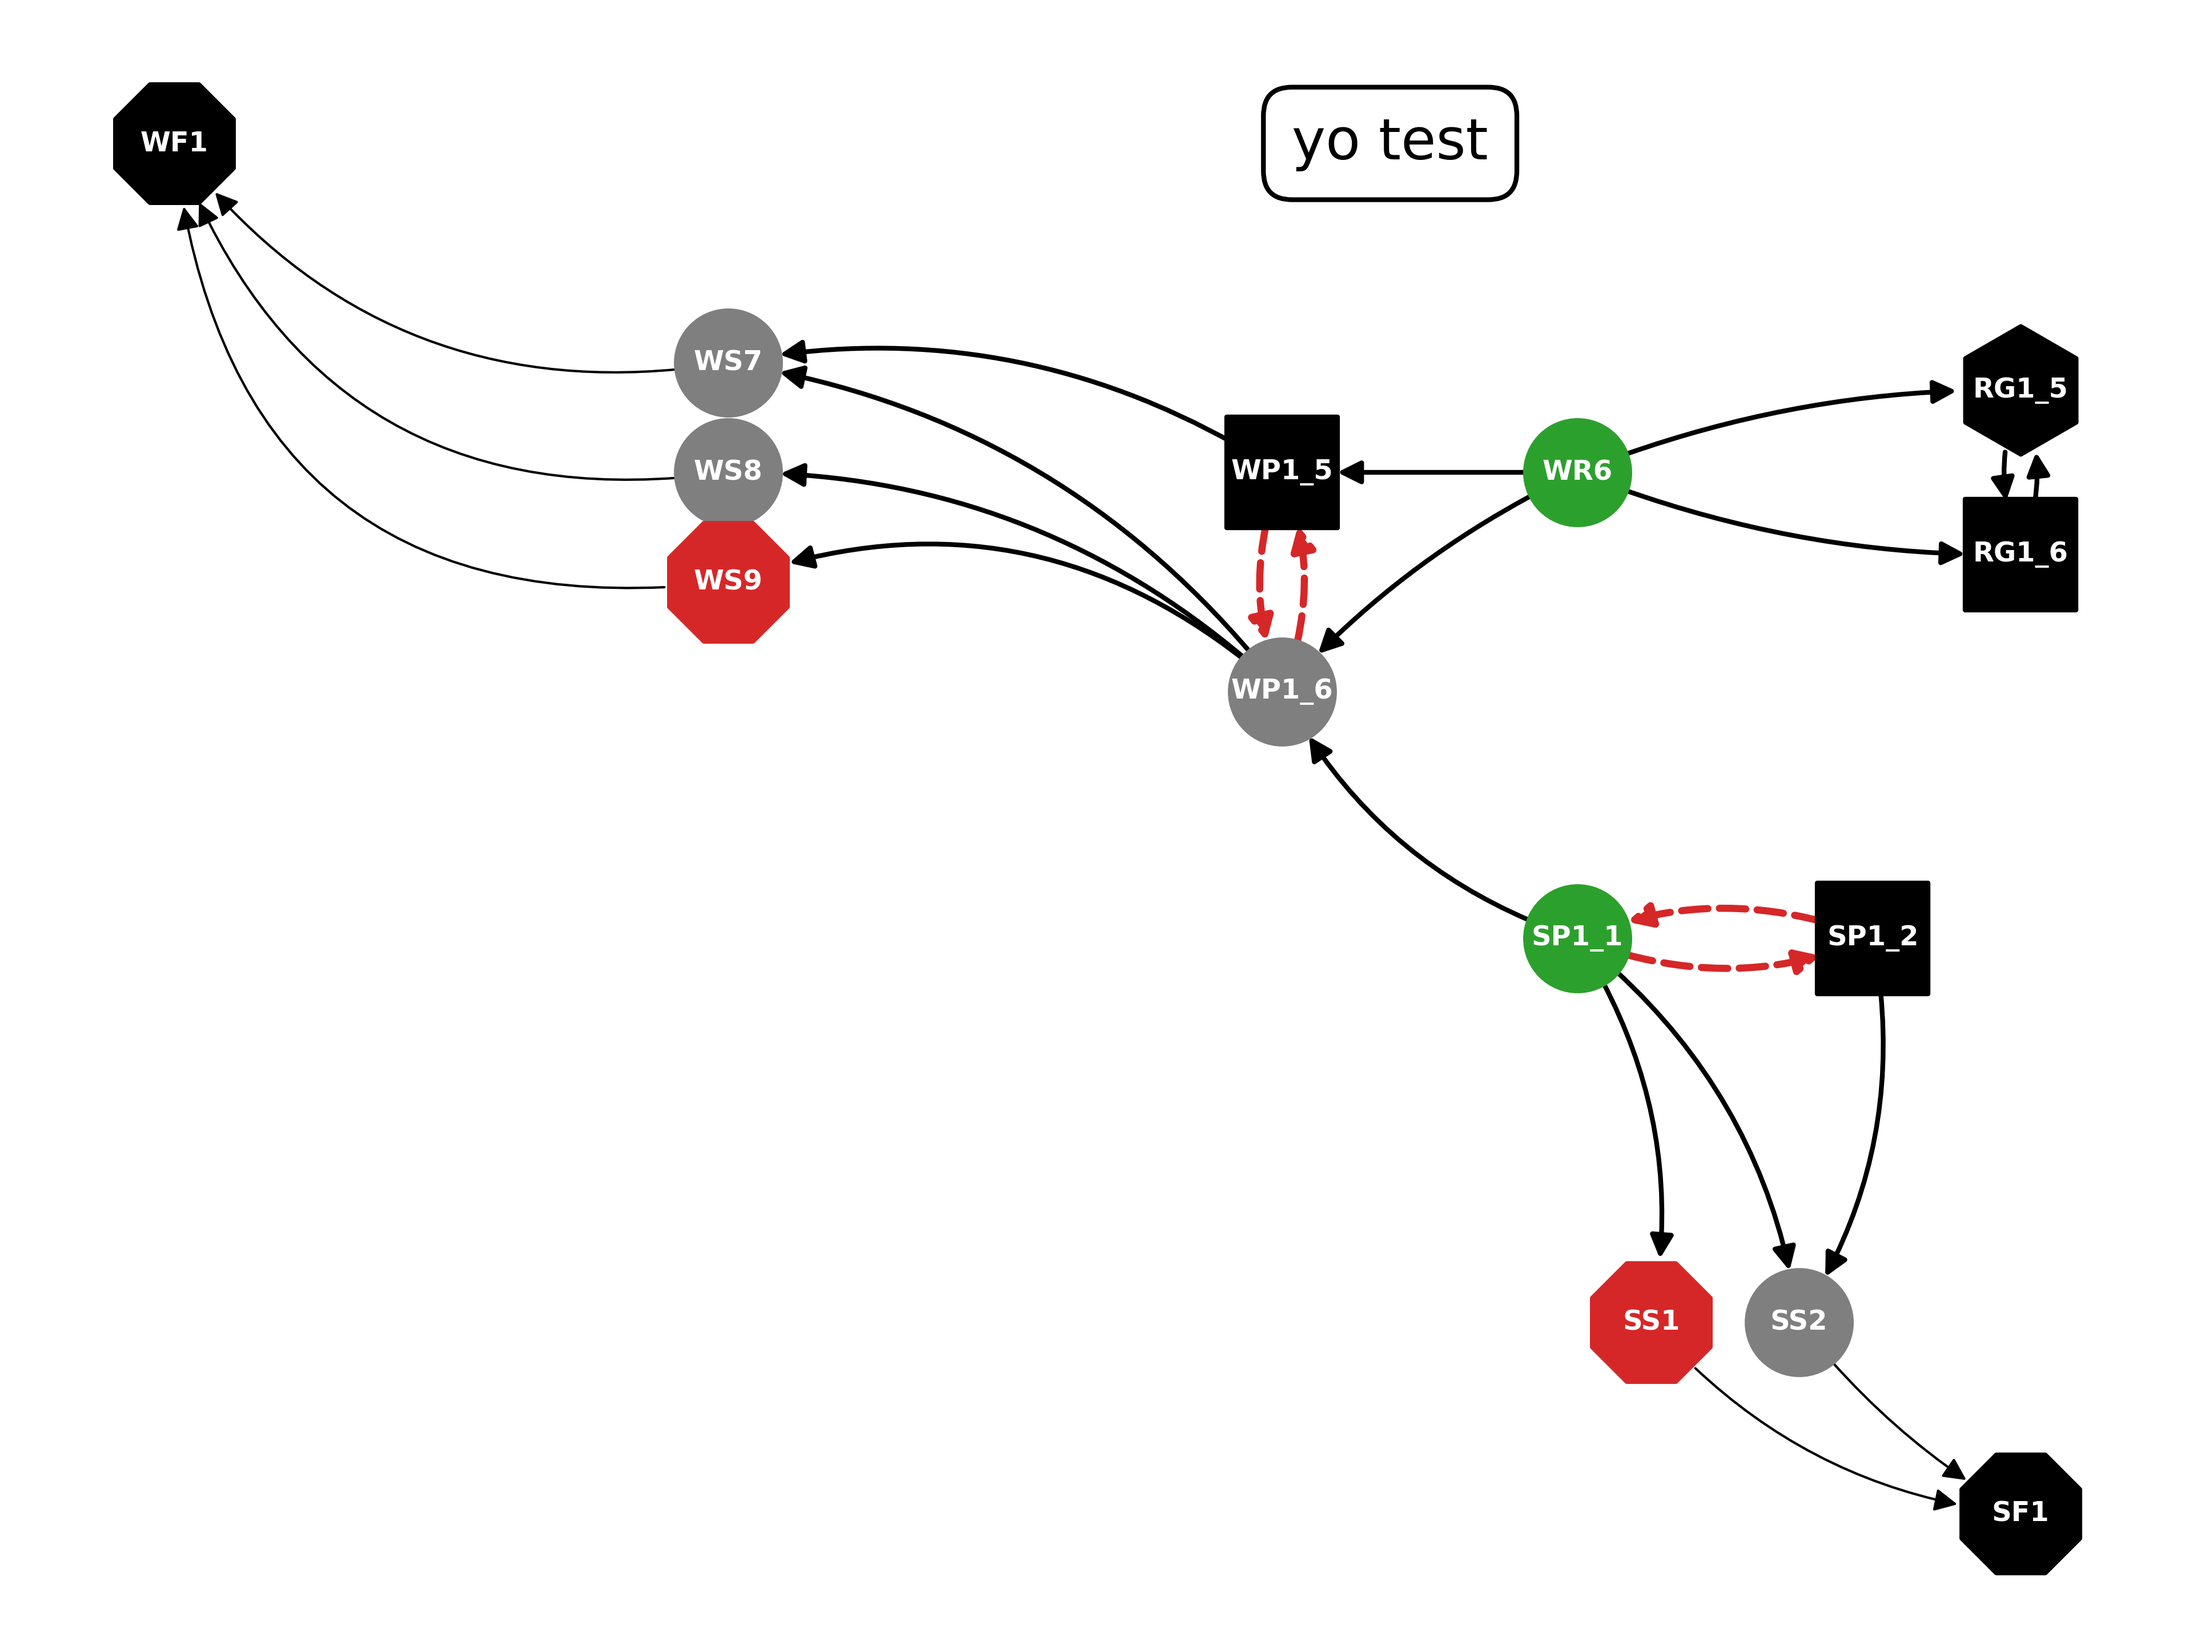
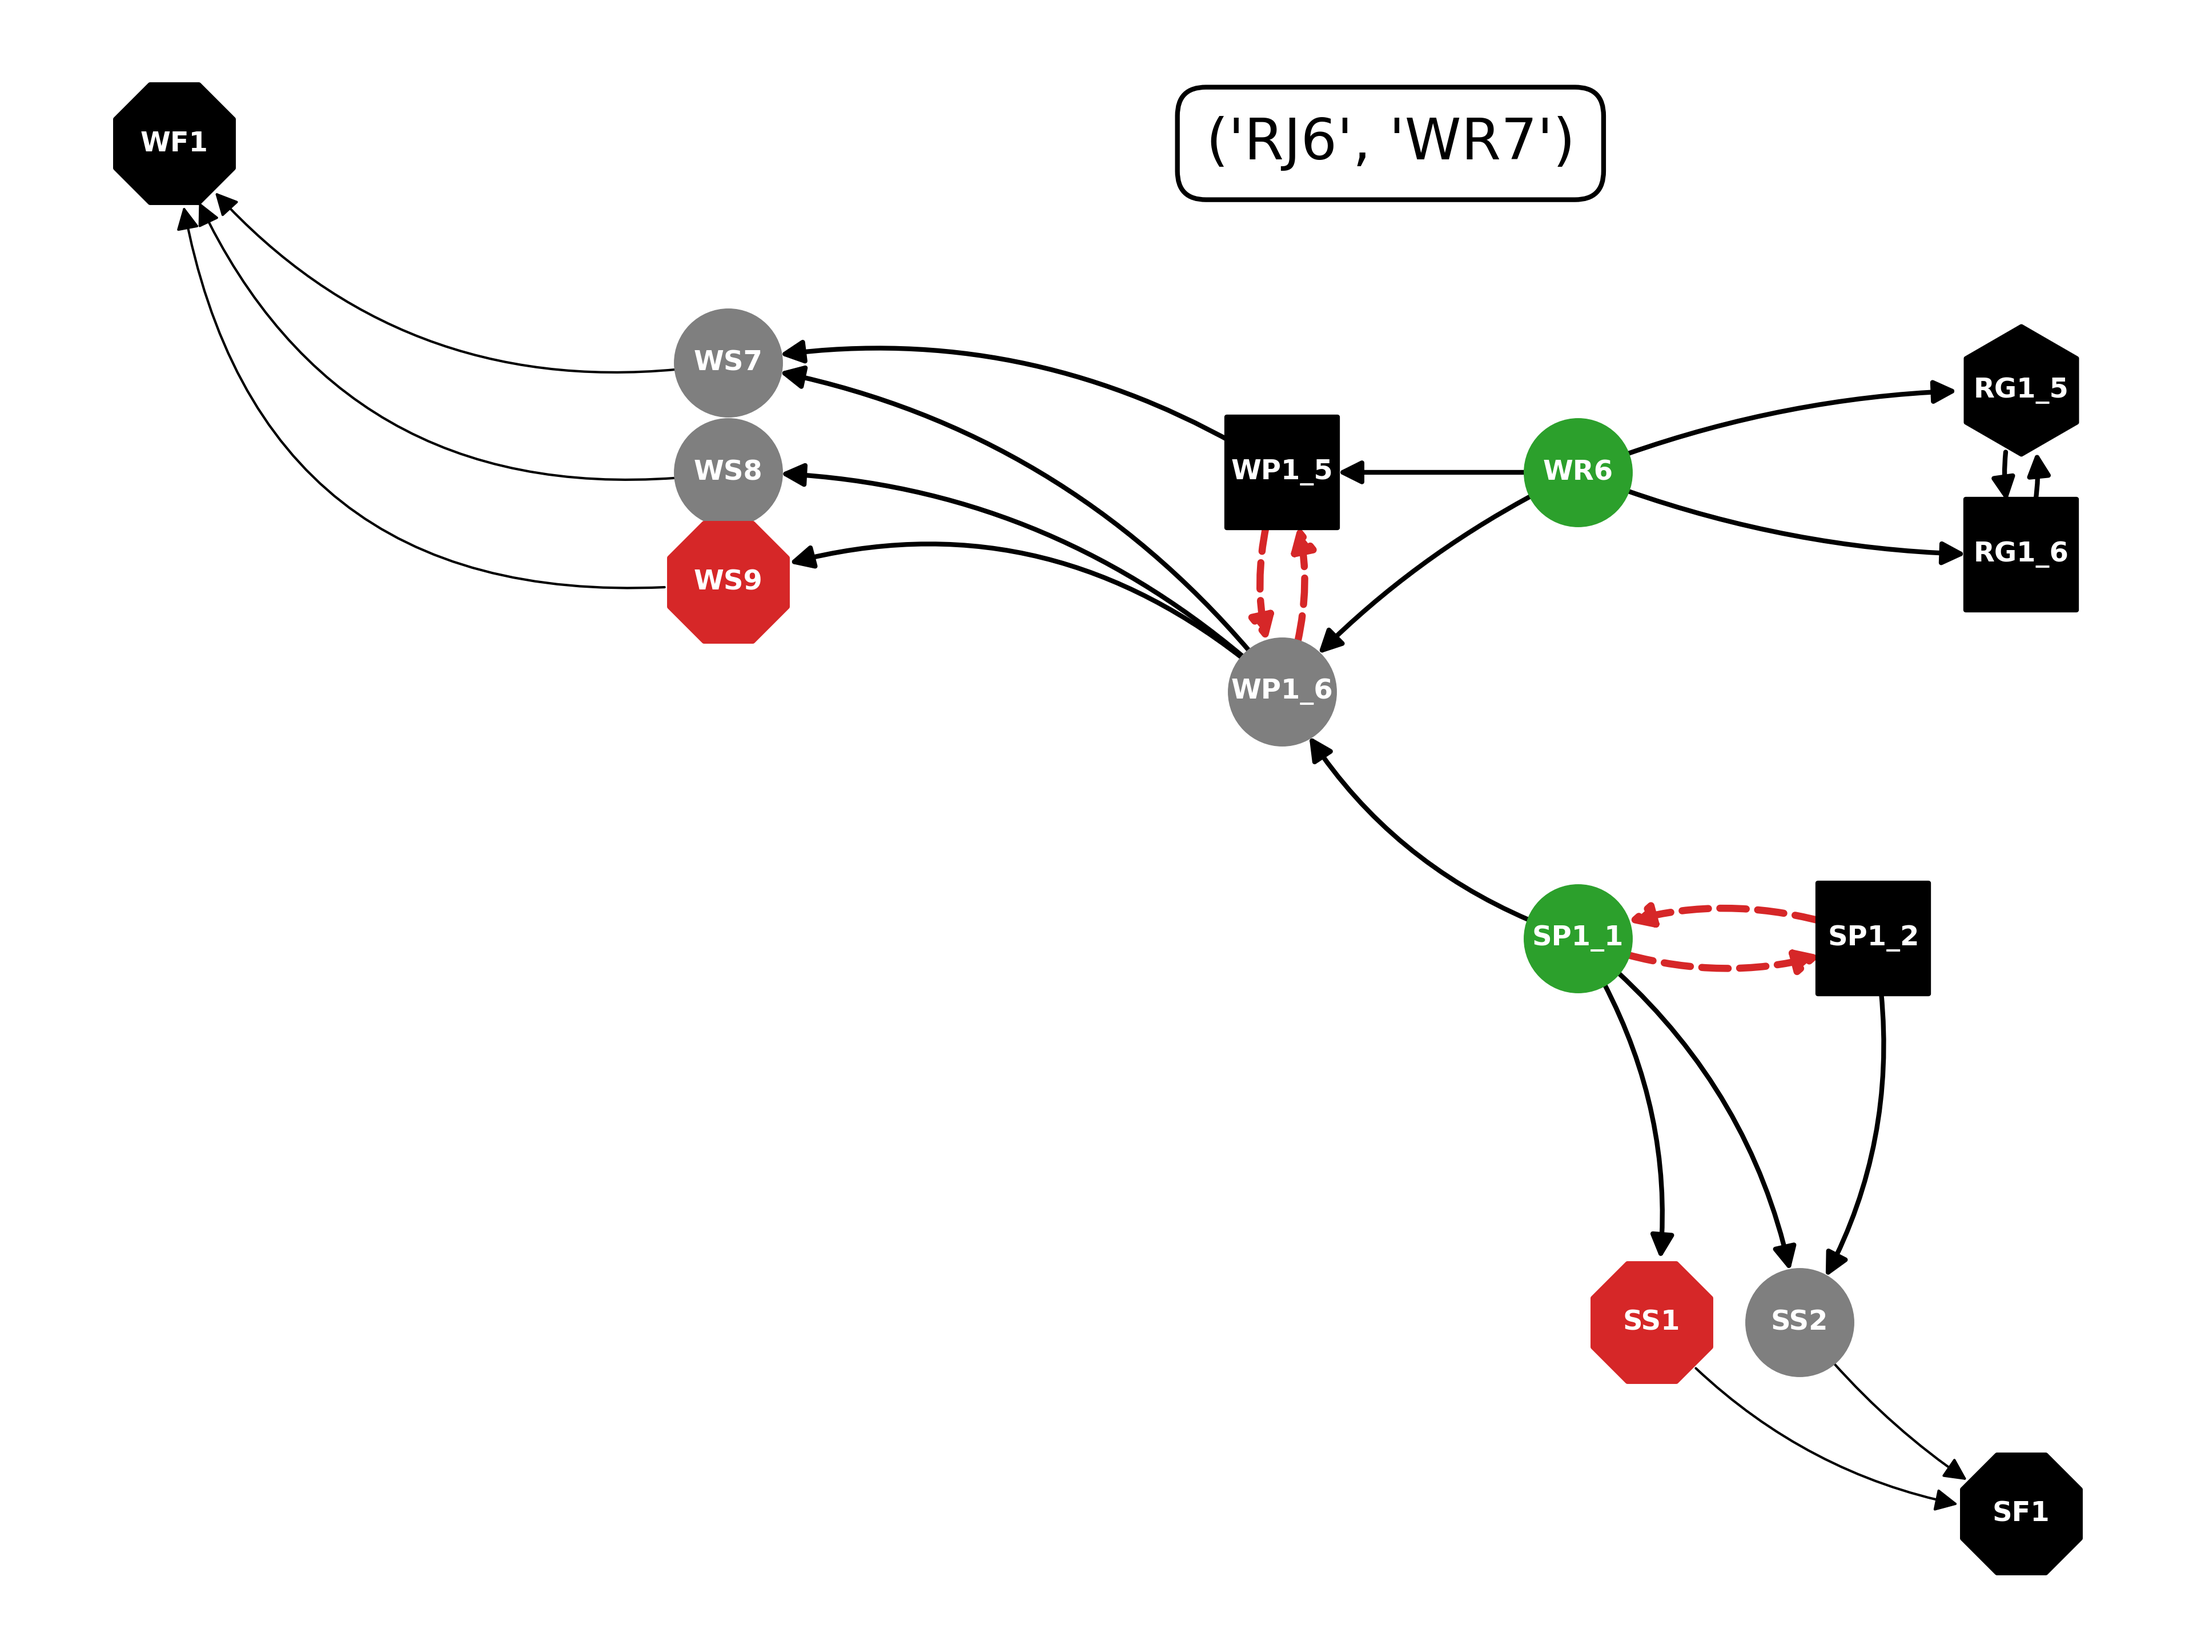
added print functionality to show what members are removed in each update to sequence subgraph

Changed region(s): [[0.5312, 0.0312, 0.7188, 0.125]]

diff --git a/src/drawing.py b/src/drawing.py
@@ -41,6 +41,8 @@ def edge_draw_settings(G, edges, type):
 def node_draw_settings(G, nodes, node_type):
     attribute_mapping = {
         "remove": {"node_type": "remove", "color": "tab:red", "size": 600, "node_shape": "8"},
+        "start": {"node_type": "start", "color": "tab:green", "size": 400, "node_shape": "o"},
+        "normal": {"node_type": "normal", "color": "tab:grey", "size": 400, "node_shape": "o"},
         "remove_start": {
             "node_type": "remove_start",
             "color": "tab:red",
@@ -71,14 +73,12 @@ def node_draw_settings(G, nodes, node_type):
             "size": 450,
             "node_shape": "s",
         },
-        "normal": {"node_type": "normal", "color": "tab:grey", "size": 400, "node_shape": "o"},
         "normal_1side_fixed": {
             "node_type": "normal_1side_fixed",
             "color": "tab:grey",
             "size": 400,
             "node_shape": "o",
         },
-        "start": {"node_type": "start", "color": "tab:green", "size": 400, "node_shape": "o"},
     }
 
     # make into a list if a single variable

diff --git a/main.py b/main.py
@@ -1,3 +1,4 @@
+from msilib import sequence
 from src.build import (
     bld_g_full,
     bld_subg_single_remove,
@@ -55,14 +56,14 @@ if __name__ == "__main__":
         )
 
     # Task #3: Sequence Generate
-    K_reduced_list = bld_sequence(K_joined, rm_membs)
+    K_reduced_list, members = bld_sequence(K_joined, rm_membs)
 
-    for i, K_reduced in enumerate(K_reduced_list):
+    for i, (K_reduced, member) in enumerate(zip(K_reduced_list, members)):
         draw_graph(
             G=K_reduced,
             filepath="{}/_step{}".format(f_out, i + 1),
             scale=1.2,
             plt_show=True,
             plt_save=True,
-            plt_text="yo test",
+            plt_text=member,
         )

diff --git a/src/algorithms.py b/src/algorithms.py
@@ -105,6 +105,7 @@ def _check_node_type(G, n_check, rm_membs):
     fixed_sides_count, _ = _count_fixed_sides(G, n_check)
 
     if n_check in rm_membs and in_degree == 0:
+        # don't add to queue if remove is also start node
         print("--REMOVE & START NODE")
         node_type = "remove_start"
     elif n_check in rm_membs:

diff --git a/src/build.py b/src/build.py
@@ -210,4 +210,4 @@ def bld_sequence(K, rm_membs):
 
             K_reduced_list.append(K_reduced.copy())
 
-    return K_reduced_list
+    return K_reduced_list, sequence
